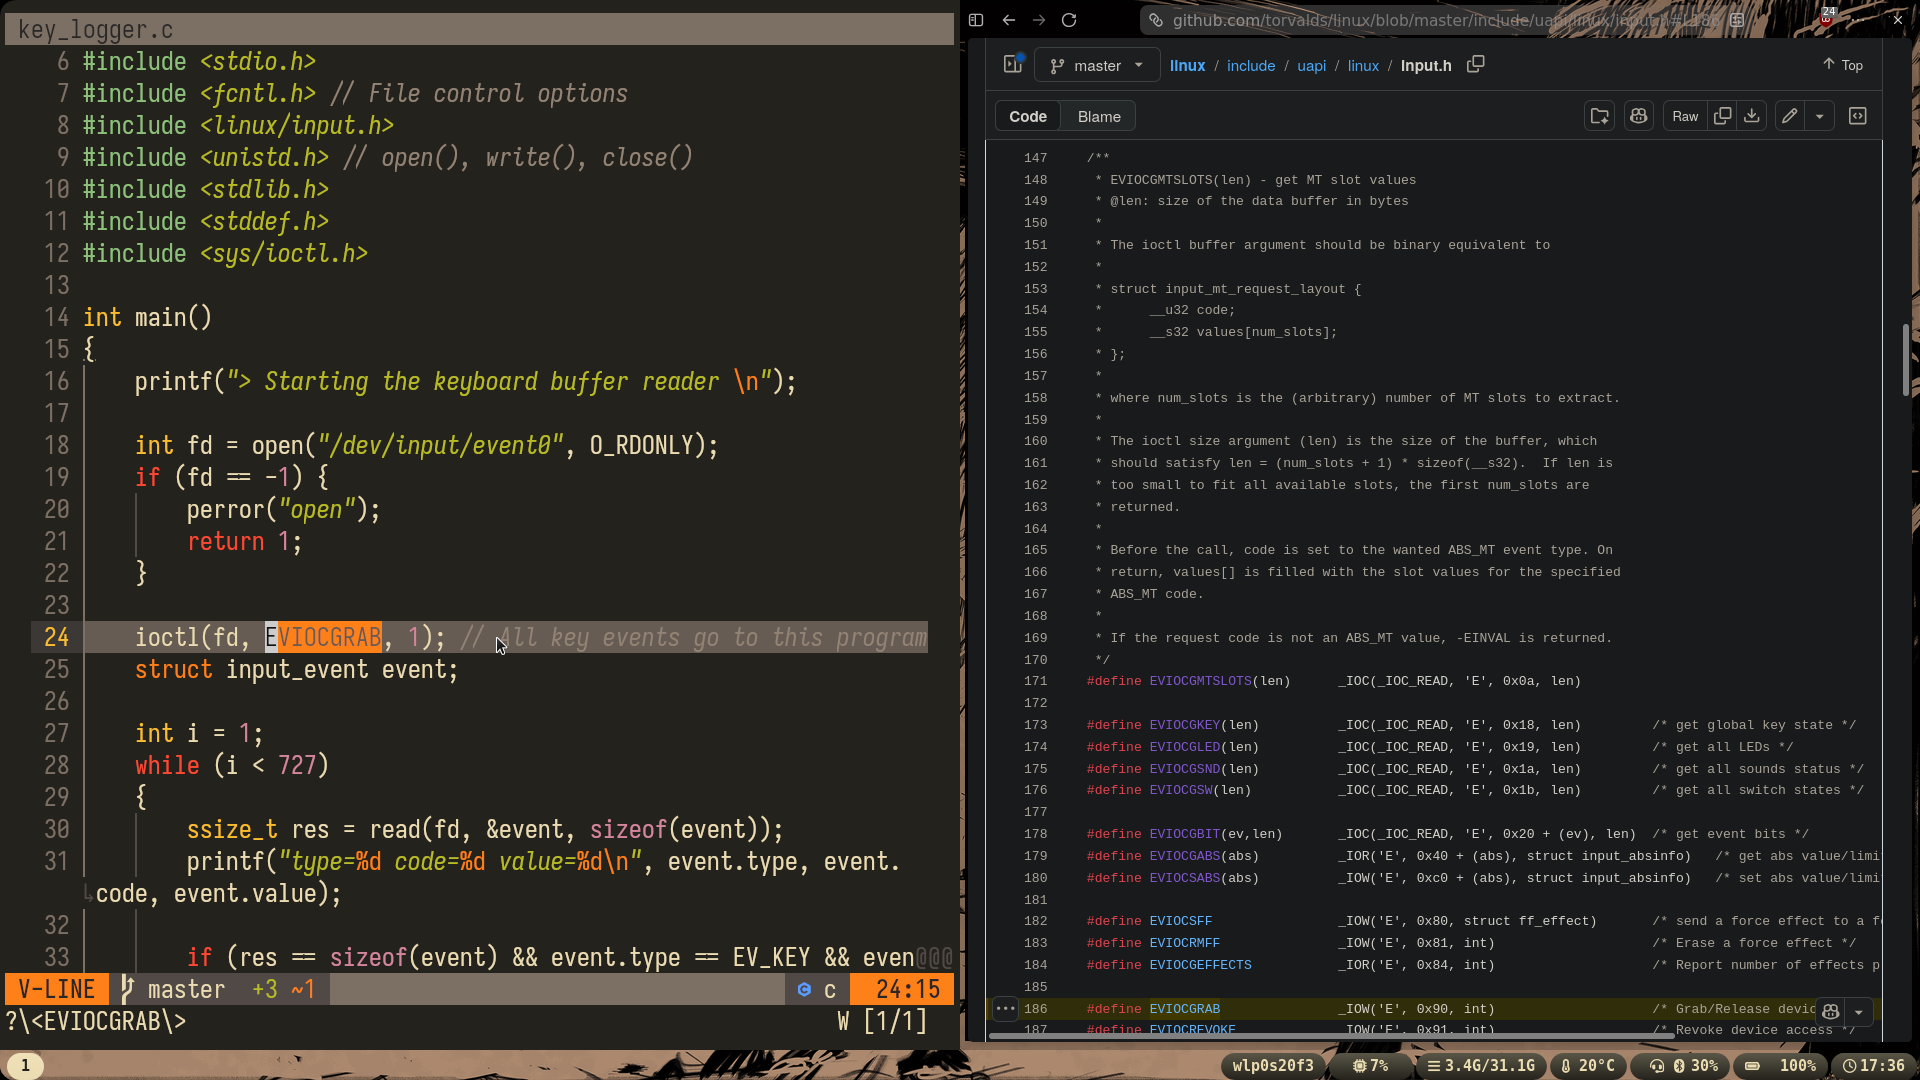
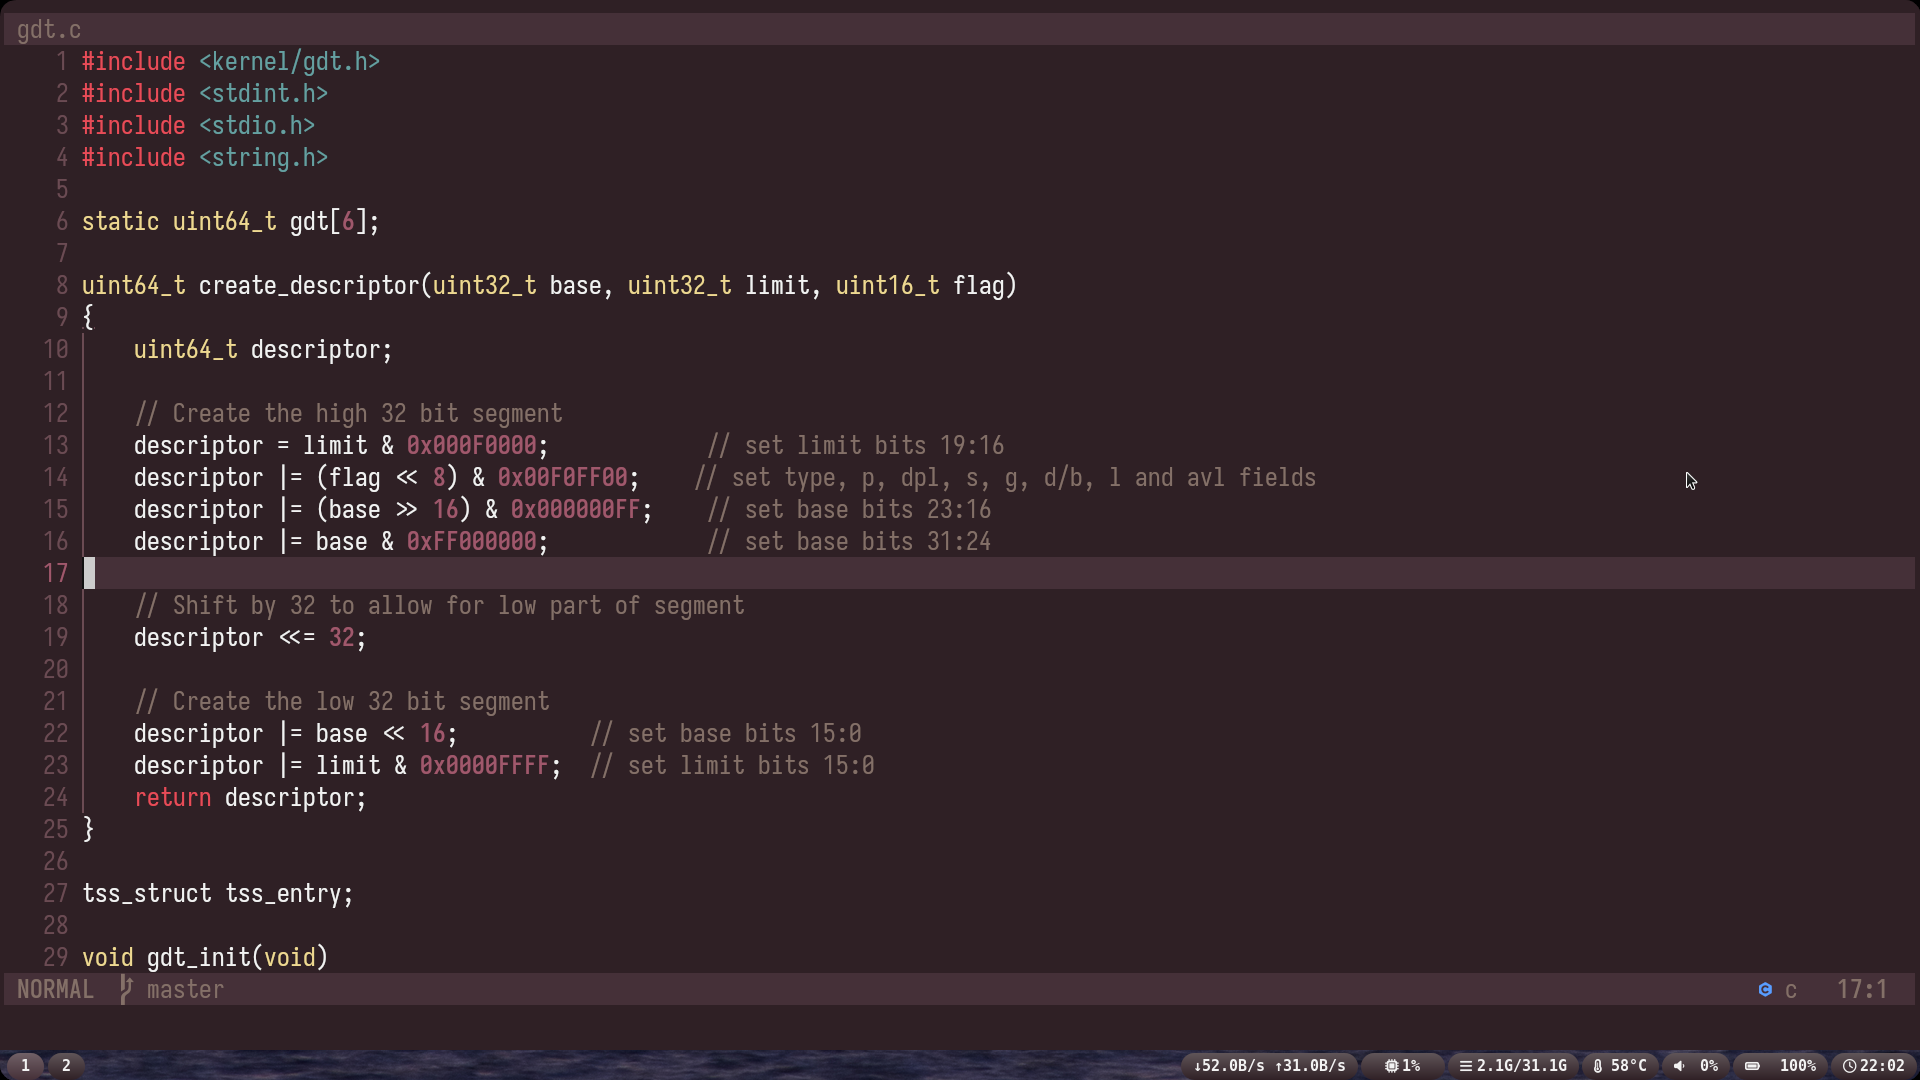
docs: Updated README and showcase + wallpaper, removed menu.png

diff --git a/README.md b/README.md
@@ -1,21 +1,23 @@
 # My NixOS config:
 ![desktop](pictures/desktop.png)
 
-![menu](pictures/menu.png)
-
 ![neovim](pictures/neovim.png)
 
-> Colour scheme: Gruvbox (with custom background colour)\
-> Dotfile management: Home-manager\
-> Display manager: tuigreet (greetd)\
-> Window manager: Sway (wayland)\
-> Bar: Waybar\
-> Terminal: Kitty\
-> Shell: zsh\
-> Text editor: Neovim\
-> App launcher: Rofi\
-> Wallpaper utility: awww\
-> Corners: Quickshell
+
+|               |               |
+| ------------- |:-------------:|
+| colour scheme | [kaolin-blossom](https://github.com/c6rg0/kaolin.nvim) |
+| operating system | nixos |
+| dotfile management | home-manager |
+| display manager | tuigreet (greetd) |
+| window manager | swaywm (wayland) |
+| bar | waybar |
+| terminal emulator | kitty |
+| shell | zsh |
+| app menu | rofi |
+| wallpaper utility | awww |
+| corners | quickshell |
+
 
 ## IMPORTANT!
 - Make sure that you have flakes enabled on your machine.
